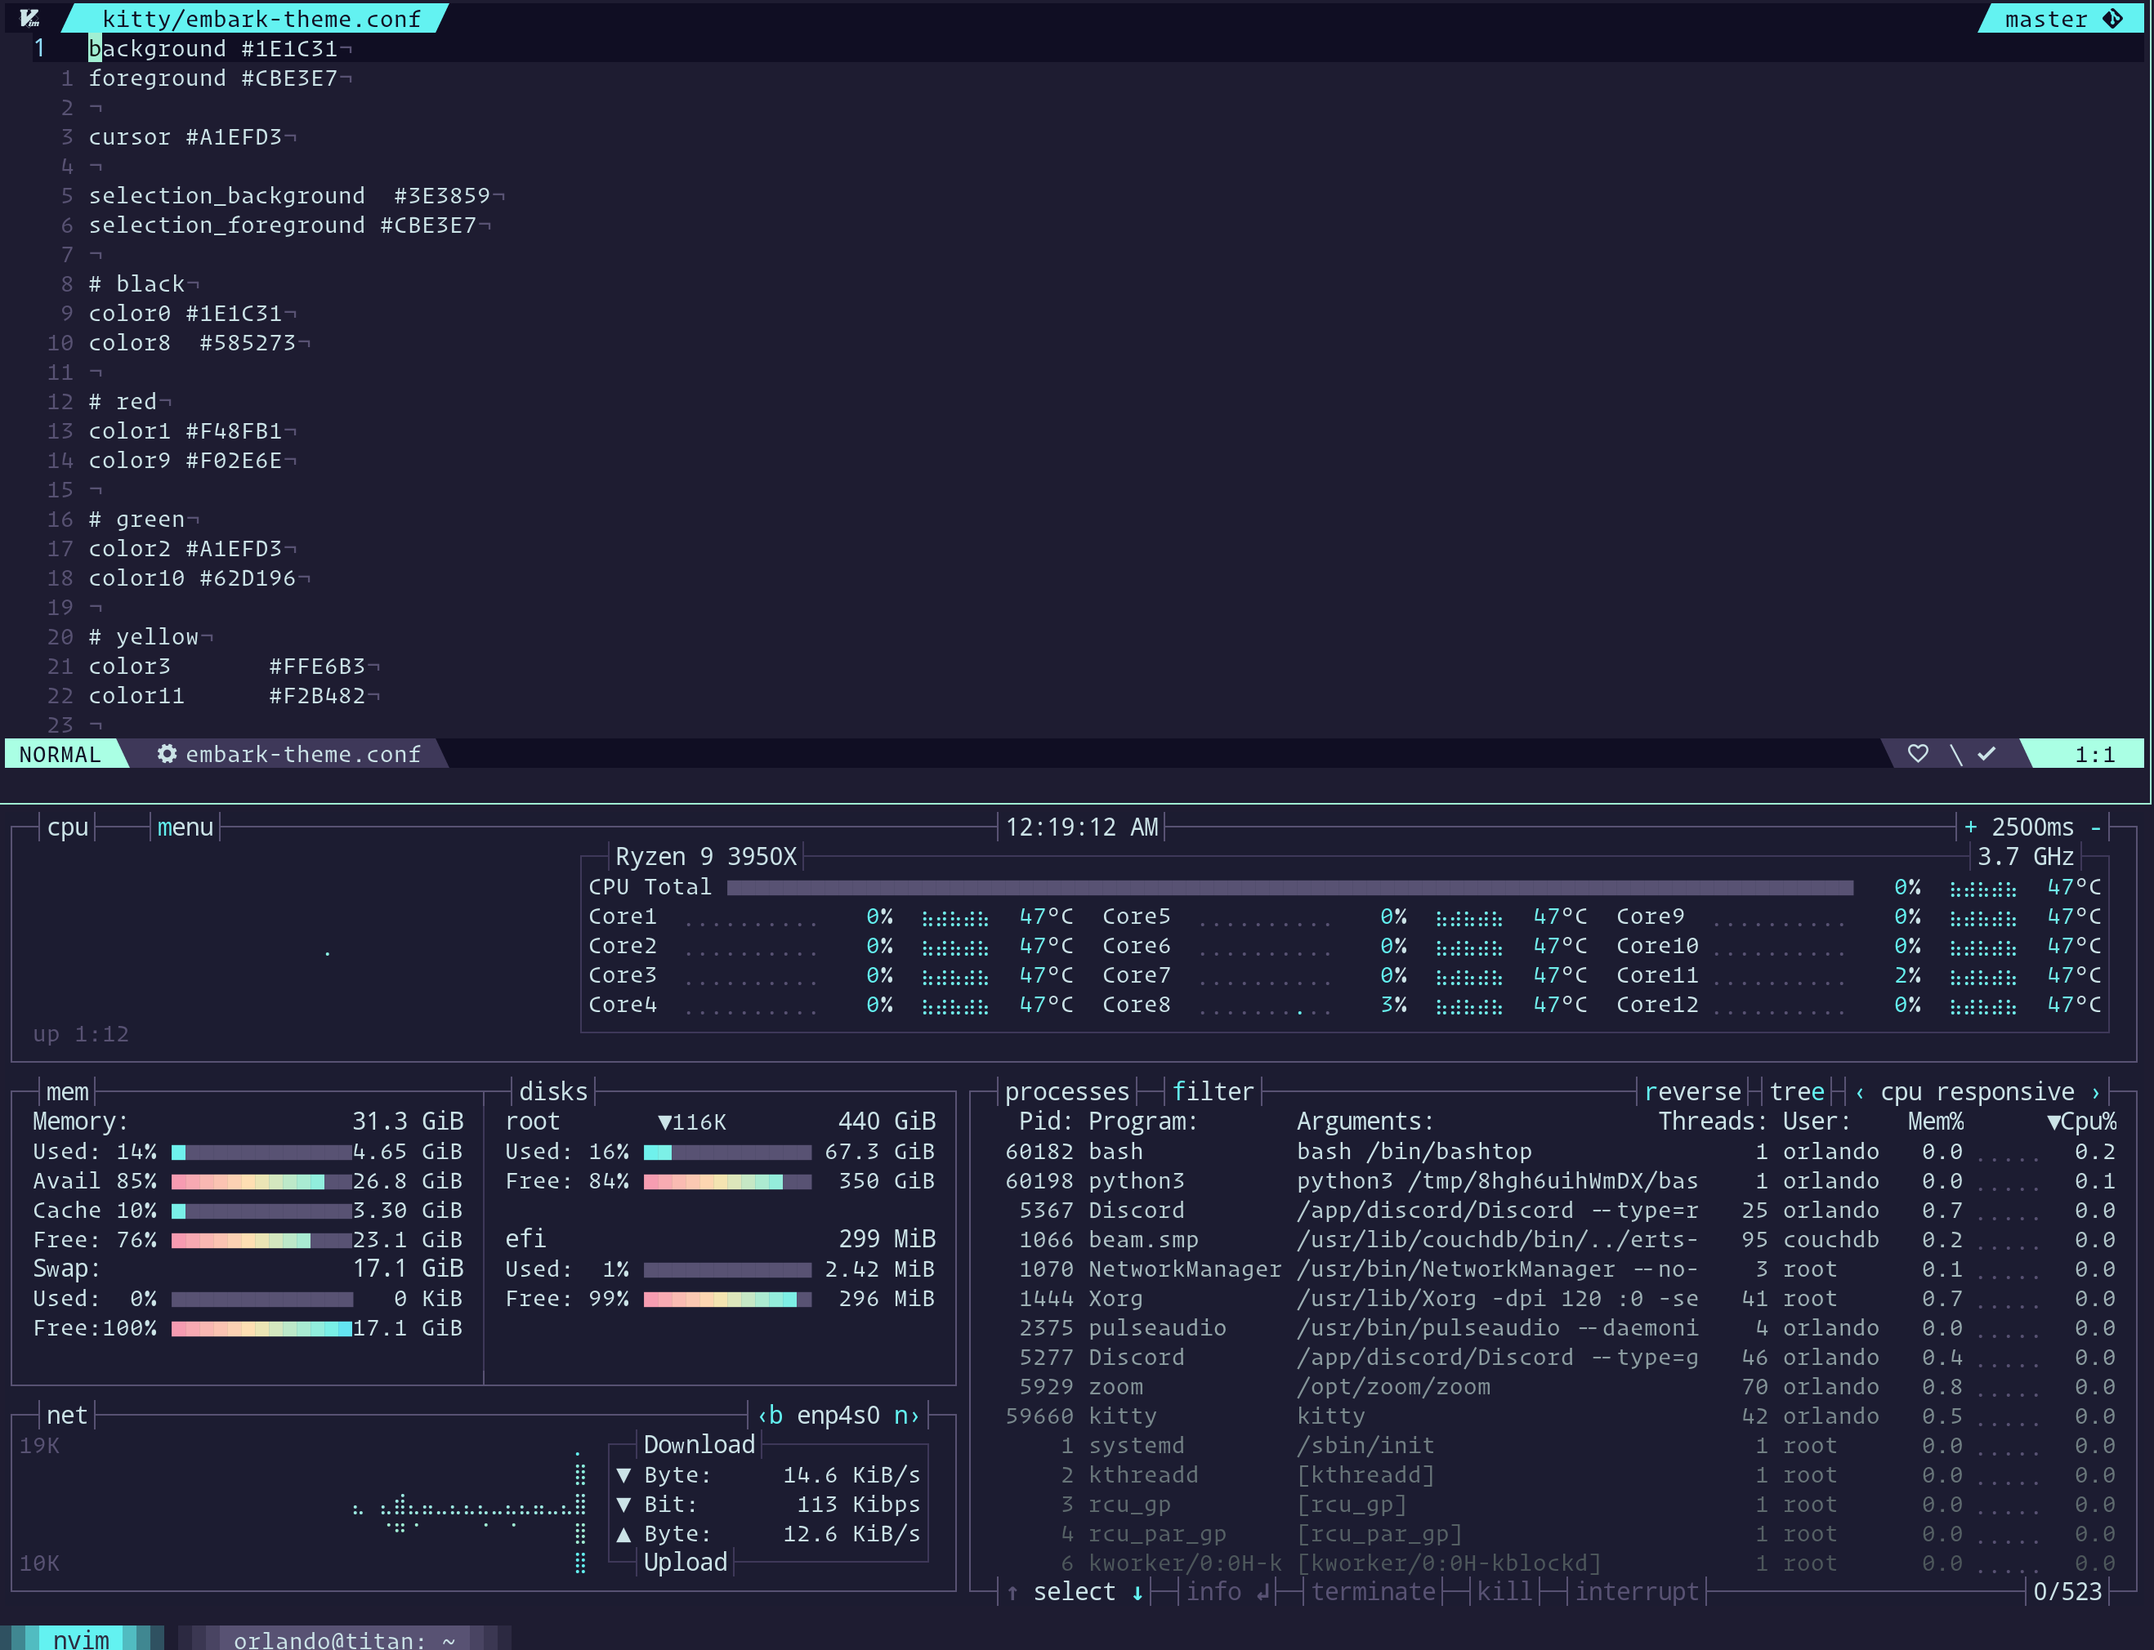
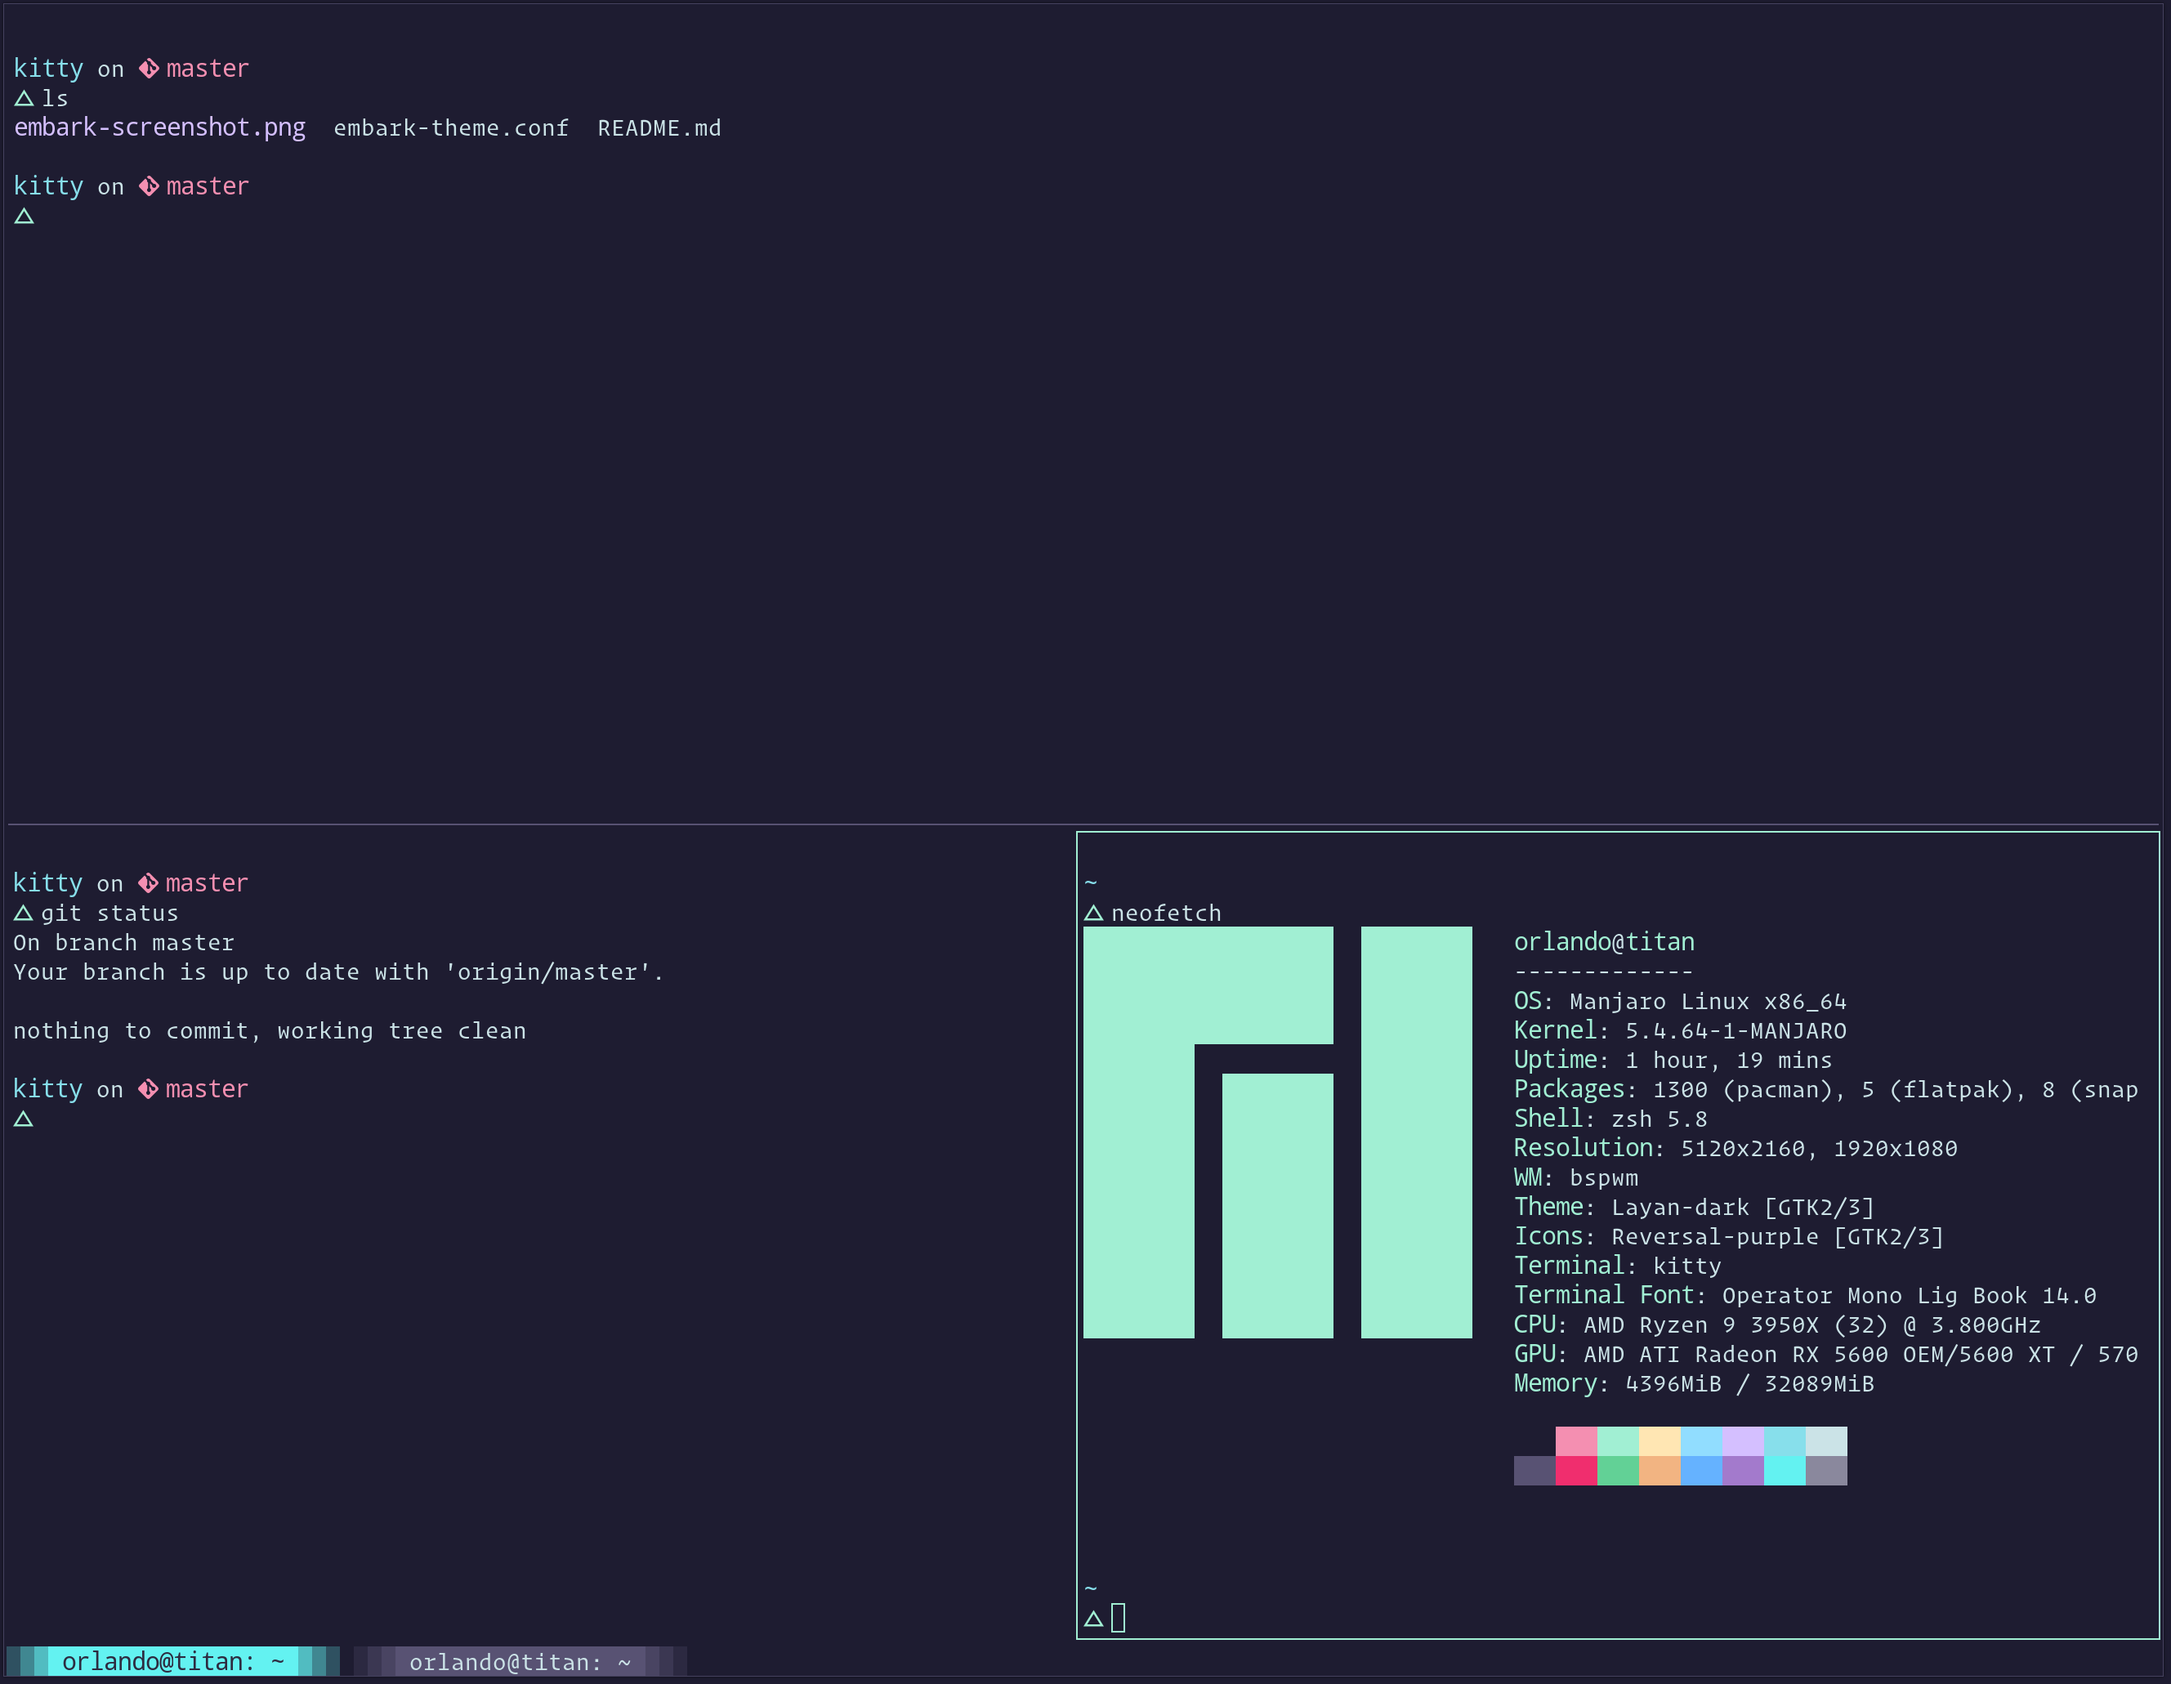
Simplify screenshot photo
Before I was trying to show off way to many things and you couldn't even
really see the kitty aspect of things.

diff --git a/README.md b/README.md
@@ -3,8 +3,6 @@ Kitty theme for the ambitious
 
 ![Embark Screenshot](./embark-screenshot.png)
 
-> Shown with Vim and bashtop in embark colorscheme. See https://embark-theme.github.io for all available ports.
-
 ## How to use
 Edit your kitty config file (usually located at `$XDG_CONFIG_HOME/kitty/kitty.conf`) and add the following line at the bottom:
 `include embark-theme.conf`.
